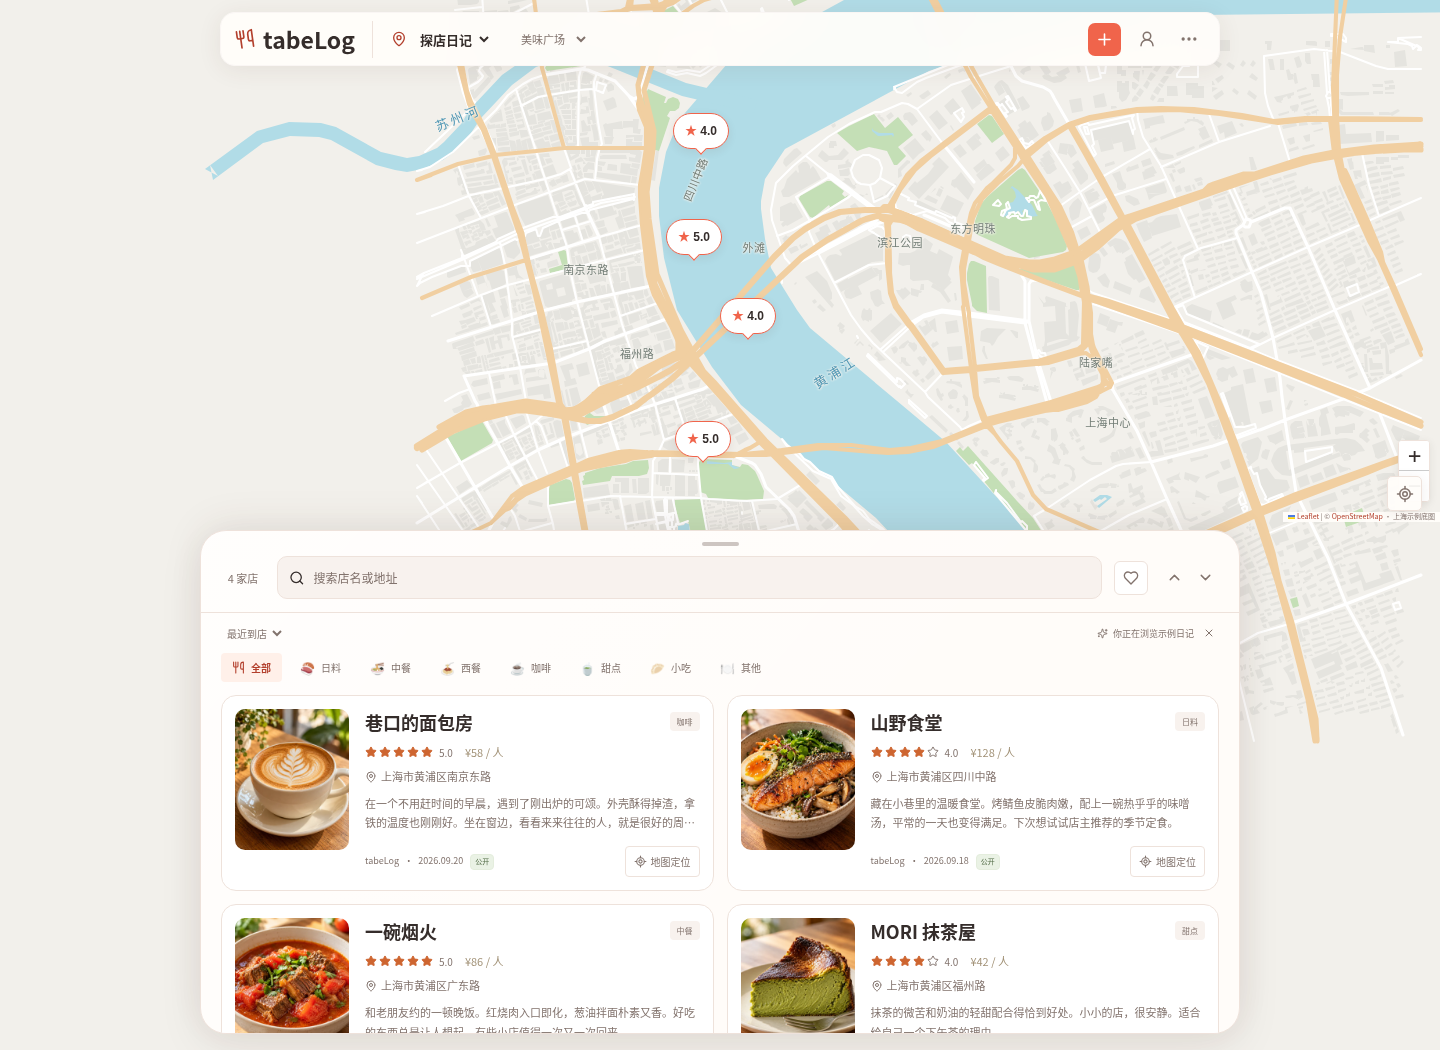
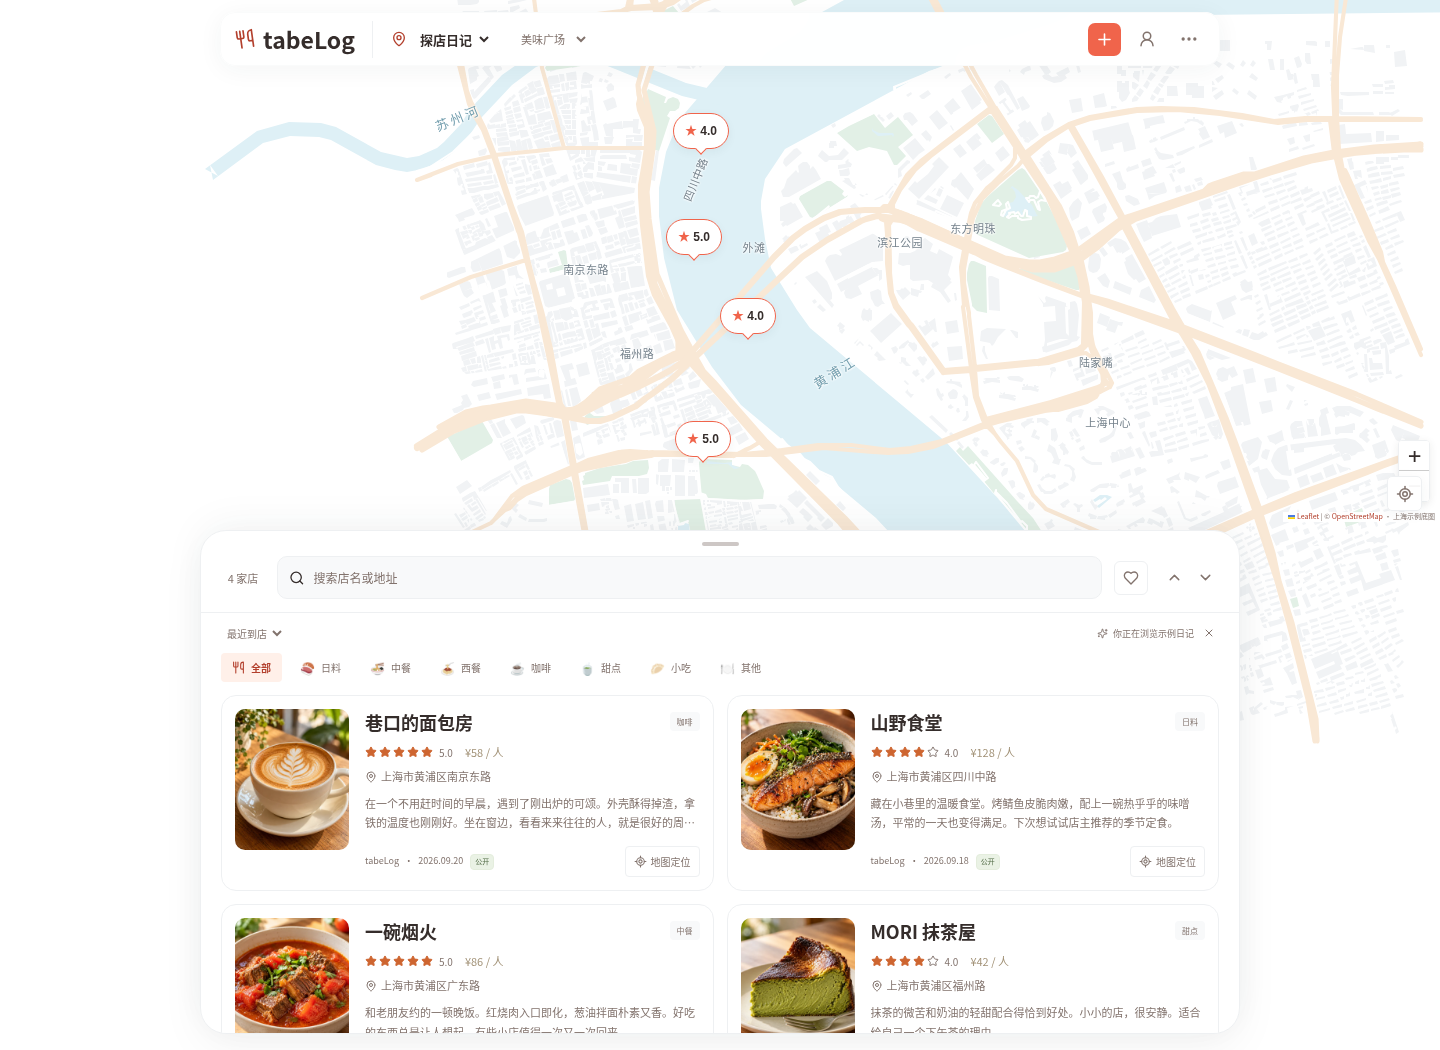
Use white backgrounds and softer map colors for coral

diff --git a/tests/e2e/diary.spec.ts b/tests/e2e/diary.spec.ts
@@ -582,7 +582,7 @@ test("all five themes switch in settings without losing menu state; saved appear
     ["午夜蓝", "midnight", "rgb(16, 23, 36)", "#101724"],
     ["雾紫银白", "lavender", "rgb(249, 250, 253)", "#f9fafd"],
     ["经典原色", "classic", "rgb(250, 249, 243)", "#f8f7f2"],
-    ["珊瑚晴空", "coral", "rgb(255, 252, 249)", "#fffcf9"],
+    ["珊瑚晴空", "coral", "rgb(255, 255, 255)", "#ffffff"],
   ]) {
     await page.getByRole("radio", { name, exact: true }).check();
     await expect(page.locator("html")).toHaveAttribute("data-theme", id);
@@ -680,7 +680,7 @@ test("theme loads before hydration, rejects invalid preferences, and still switc
       );
       await expect(page.locator("body")).toHaveCSS(
         "background-color",
-        expected === "midnight" ? "rgb(16, 23, 36)" : "rgb(255, 252, 249)",
+        expected === "midnight" ? "rgb(16, 23, 36)" : "rgb(255, 255, 255)",
       );
     } finally {
       await context.close();
@@ -767,7 +767,7 @@ test("proposed appearance includes actual demo cartography, photo covers and map
   for (const [name, color] of [
     ["午夜蓝", "rgb(30, 72, 122)"],
     ["雾紫银白", "rgb(197, 196, 239)"],
-    ["珊瑚晴空", "rgb(177, 220, 231)"],
+    ["珊瑚晴空", "rgb(222, 240, 246)"],
   ]) {
     await page.getByRole("radio", { name, exact: true }).check();
     await expect(water).toHaveCSS("fill", color);

diff --git a/app/themes.css b/app/themes.css
@@ -2,35 +2,35 @@
 :root,
 [data-theme="coral"] {
   color-scheme: light;
-  --paper: #fffcf9;
+  --paper: #ffffff;
   --white: #ffffff;
-  --soft: #f8f2ee;
+  --soft: #f8f9fa;
   --ink: #352d2b;
   --muted: #82736d;
-  --line: #eee2db;
+  --line: #eef0f2;
   --rust: #f0644b;
   --rust-dark: #ec6048;
   --olive: #b3402d;
   --accent-ink: #b3402d;
   --accent-soft: #fff0e9;
   --on-accent: #39231d;
-  --nav-bg: #fffdfaf2;
-  --map-bg: #f2f0eb;
+  --nav-bg: #fffffff5;
+  --map-bg: #ffffff;
   --map-grid: #ffffff80;
   --basket-bg: #382f2c;
   --basket-ink: #fff9f5;
   --basket-muted: #dacac2;
-  --shadow: #59362915;
+  --shadow: #2633400d;
   --rating: #ce6530;
   --danger: #ae3c2b;
   --danger-soft: #fff0ec;
-  --map-building: #e5e4df;
-  --map-park: #c4dfb6;
-  --map-water: #b1dce7;
+  --map-building: #f1f3f5;
+  --map-park: #e2f0e6;
+  --map-water: #def0f6;
   --map-road: #ffffff;
-  --map-arterial: #f1cfa1;
-  --map-label: #727d76;
-  --map-water-label: #4d96b4;
+  --map-arterial: #f9e8d5;
+  --map-label: #75828c;
+  --map-water-label: #719dad;
   --control-ink: #ffffff;
 }
 [data-theme="mint"] {

diff --git a/components/MapView.tsx b/components/MapView.tsx
@@ -101,7 +101,7 @@ function amapStyle() {
       ? "darkblue"
       : theme === "mint"
         ? "fresh"
-        : theme === "lavender"
+        : theme === "lavender" || theme === "coral"
           ? "whitesmoke"
           : "normal";
   return `amap://styles/${name}`;
@@ -110,12 +110,7 @@ function rasterUrl() {
   const theme = document.documentElement.dataset.theme;
   if (theme === "classic")
     return "https://{s}.tile.openstreetmap.org/{z}/{x}/{y}.png";
-  const style =
-    theme === "midnight"
-      ? "dark_all"
-      : theme === "coral"
-        ? "rastertiles/voyager"
-        : "light_all";
+  const style = theme === "midnight" ? "dark_all" : "light_all";
   return `https://basemaps.cartocdn.com/${style}/{z}/{x}/{y}.png`;
 }
 function loadScript(id: string, src: string) {

diff --git a/lib/themes.ts b/lib/themes.ts
@@ -5,8 +5,8 @@ export const THEMES = [
   {
     id: "coral",
     name: "珊瑚晴空",
-    description: "暖白底色 · 明亮珊瑚",
-    color: "#fffcf9",
+    description: "清透白底 · 明亮珊瑚",
+    color: "#ffffff",
     dark: false,
   },
   {

diff --git a/app/layout.tsx b/app/layout.tsx
@@ -14,7 +14,7 @@ export const metadata: Metadata = {
 export const viewport: Viewport = {
   width: "device-width",
   initialScale: 1,
-  themeColor: "#fffcf9",
+  themeColor: "#ffffff",
 };
 export default function RootLayout({
   children,
